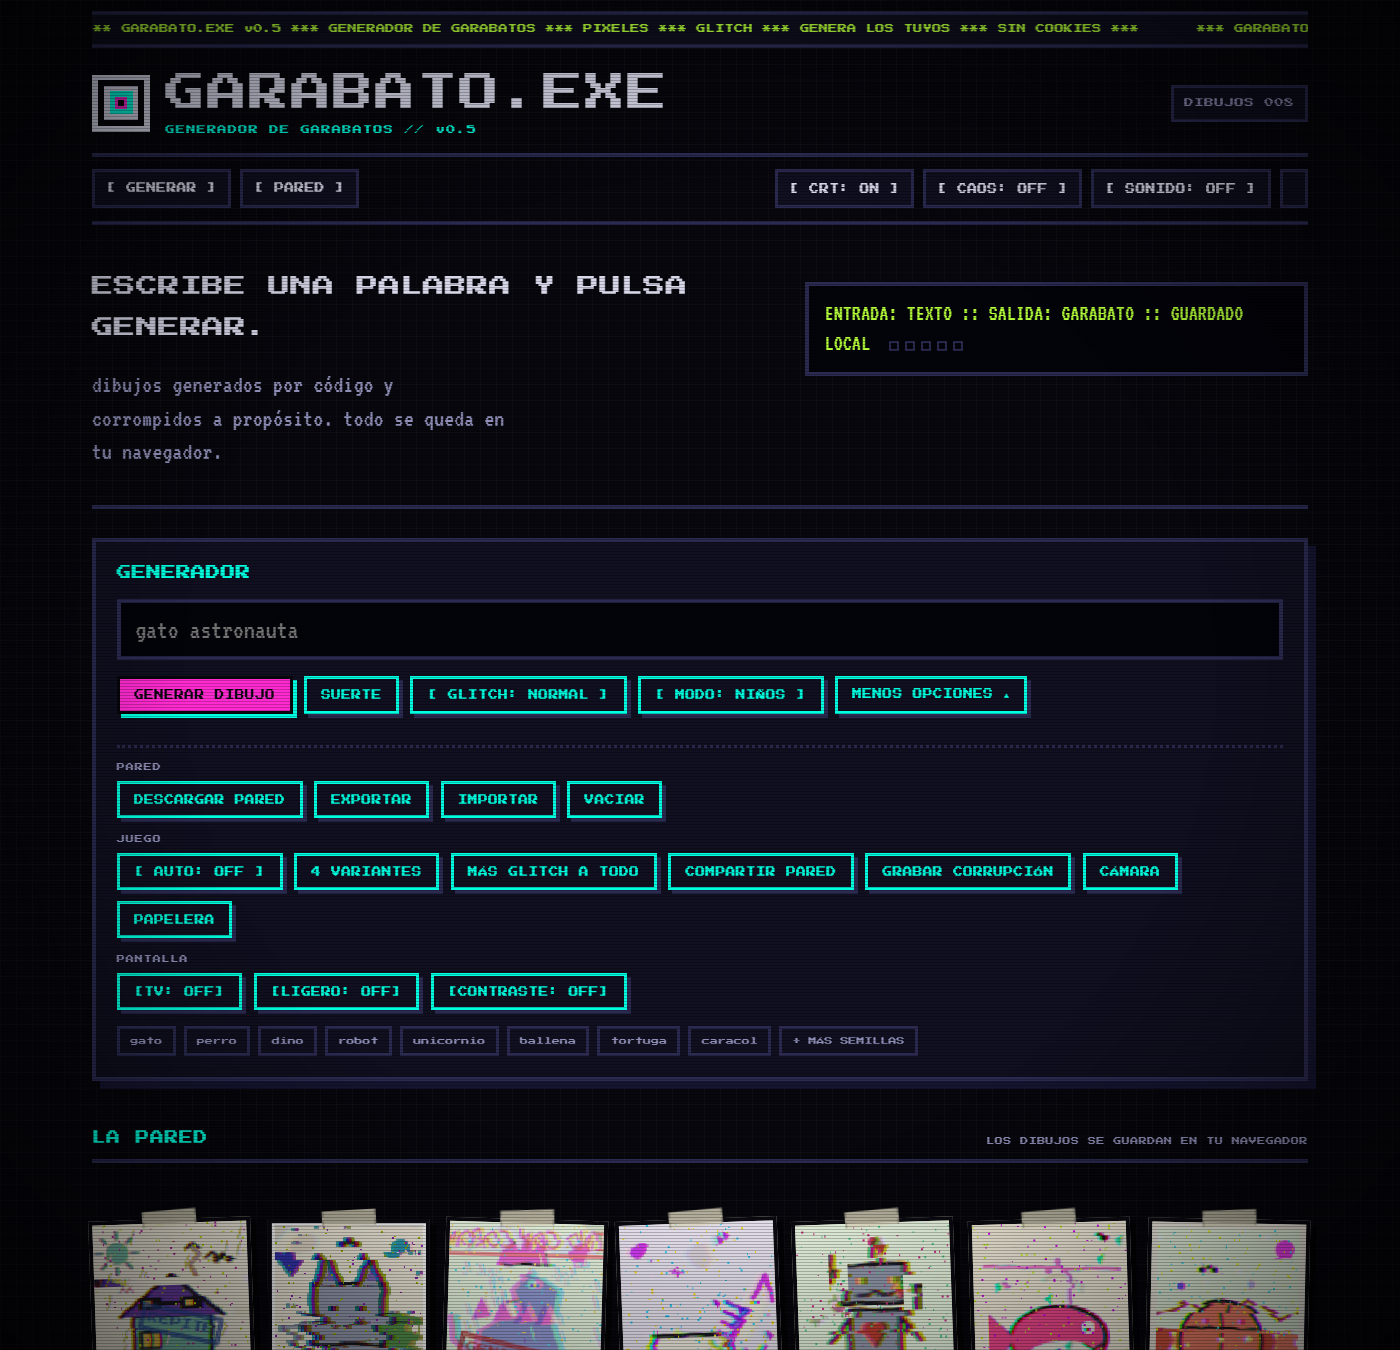
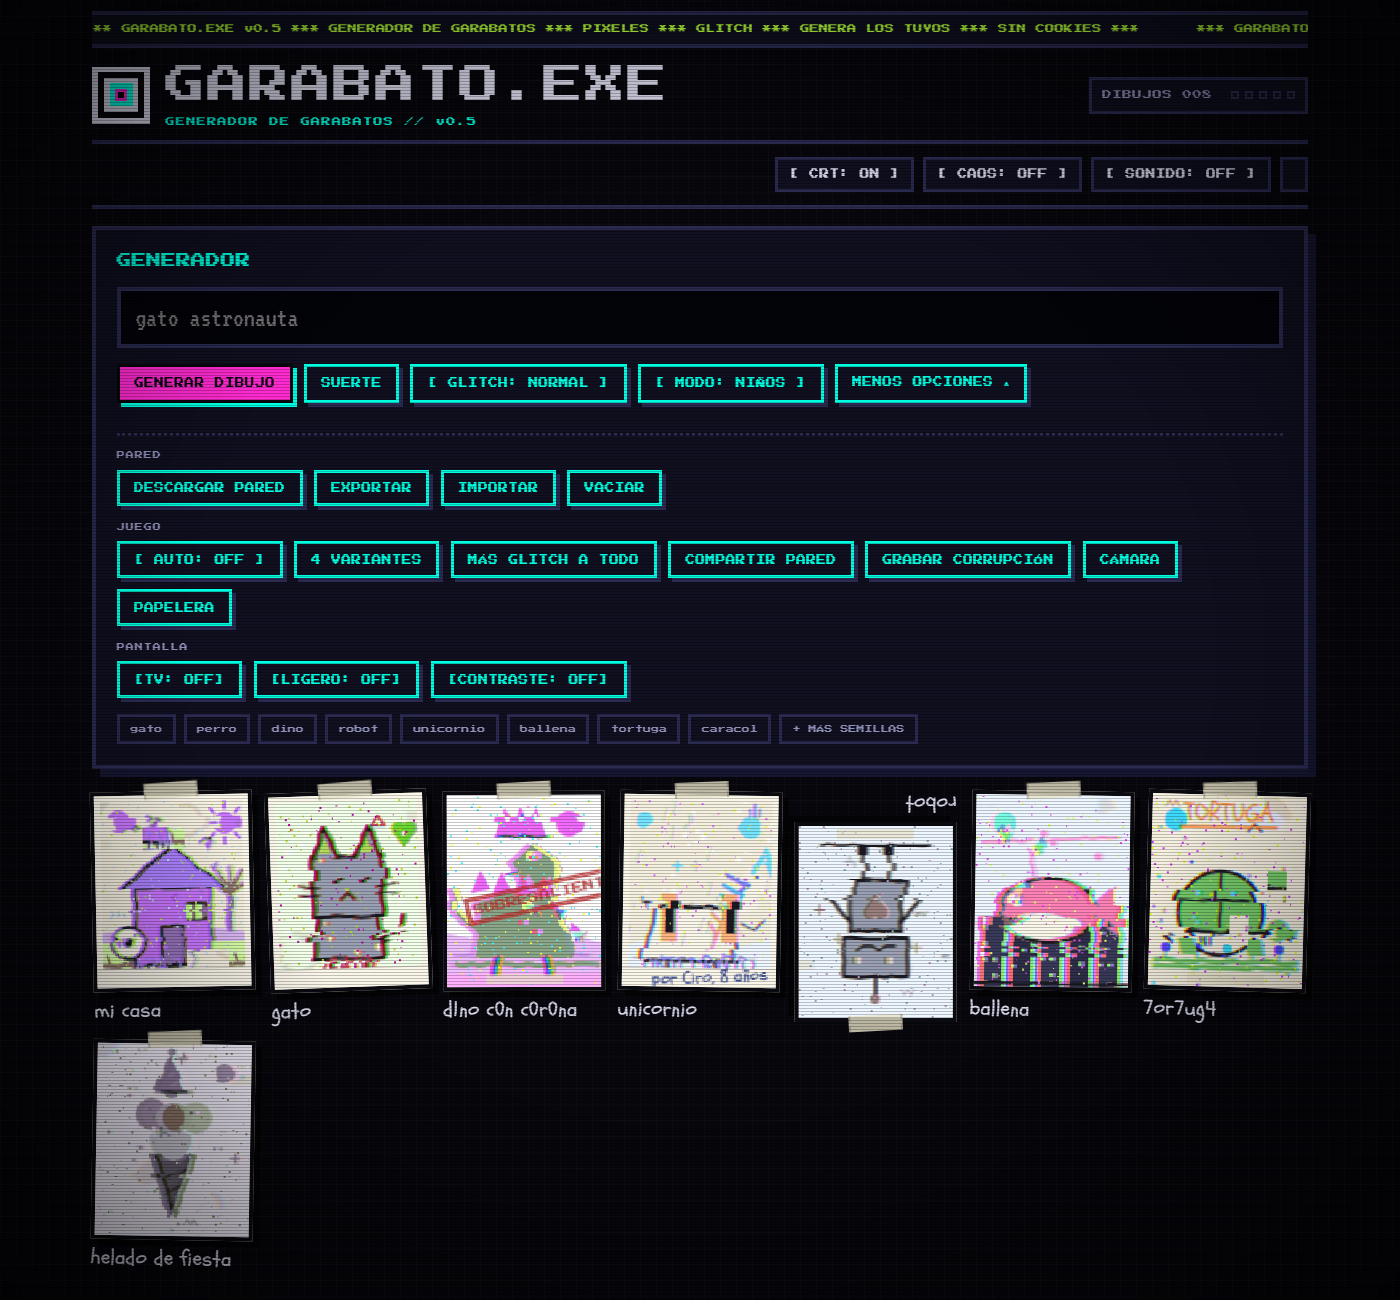
Simplifica la cabecera: generador y pared arriba, quita presentacion y anclajes

diff --git a/index.html b/index.html
@@ -34,24 +34,14 @@
       <p class="marca"><a href="index.html" data-scramble>GARABATO.EXE</a></p>
       <p class="lema">GENERADOR DE GARABATOS // v0.5</p>
     </div>
-    <p class="contador-visitas"><span class="etiqueta-contador">DIBUJOS</span> <span data-total>000</span></p>
+    <p class="contador-visitas"><span class="etiqueta-contador">DIBUJOS</span> <span data-total>000</span> <span class="sellos" data-sellos aria-label="sellos"></span></p>
   </div>
   <nav class="menu" aria-label="Principal">
-    <a href="#generador">[ GENERAR ]</a>
-    <a href="#pared">[ PARED ]</a>
     <button class="tema" type="button" data-accion="tema" aria-pressed="true">[ CRT: ON ]</button>
   </nav>
 </header>
 
 <main id="contenido">
-
-  <section class="heroe">
-    <div>
-      <h2><span class="glitch" data-text="ESCRIBE UNA PALABRA">ESCRIBE UNA PALABRA</span> Y PULSA GENERAR.</h2>
-      <p class="entradilla">dibujos generados por código y corrompidos a propósito. todo se queda en tu navegador.</p>
-    </div>
-    <div class="escanner">ENTRADA: TEXTO :: SALIDA: GARABATO :: GUARDADO LOCAL <span class="sellos" data-sellos aria-label="sellos"></span></div>
-  </section>
 
   <section class="generador" id="generador" aria-labelledby="titulo-generador">
     <h2 id="titulo-generador">GENERADOR</h2>
@@ -146,11 +136,6 @@
       <button class="chip" type="button" data-accion="mas-semillas" aria-expanded="false">+ MÁS SEMILLAS</button>
     </p>
   </section>
-
-  <div class="seccion-titulo" id="pared">
-    <h2>LA PARED</h2>
-    <p>los dibujos se guardan en tu navegador</p>
-  </div>
 
   <div class="pared" data-pared></div>
 

diff --git a/css/estilo.css b/css/estilo.css
@@ -302,7 +302,7 @@ h3,
   display: flex;
   align-items: center;
   gap: 1rem;
-  padding: 1.4rem 0 1rem;
+  padding: 0.9rem 0 0.7rem;
   flex-wrap: wrap;
 }
 
@@ -1784,7 +1784,7 @@ ul.check li.hecho::before {
   display: grid;
   grid-template-columns: repeat(auto-fill, minmax(140px, 1fr));
   gap: 18px 14px;
-  padding: 2rem 0 1rem;
+  padding: 1.4rem 0 1rem;
 }
 
 .dibujo {
@@ -1854,7 +1854,7 @@ html.modo-caos .dibujo canvas {
 .generador {
   display: grid;
   gap: 1rem;
-  margin: 1.8rem 0 0;
+  margin: 1.1rem 0 0;
   padding: 1.3rem;
   background: var(--panel);
   border: 4px solid var(--linea);
@@ -2330,3 +2330,6 @@ html.alto-contraste body::after {
 .semillas.abiertas .chip.oculta {
   display: inline-block;
 }
+.contador-visitas .sellos { margin-left: 8px; }
+
+.contador-visitas .sellos span { width: 8px; height: 8px; }
